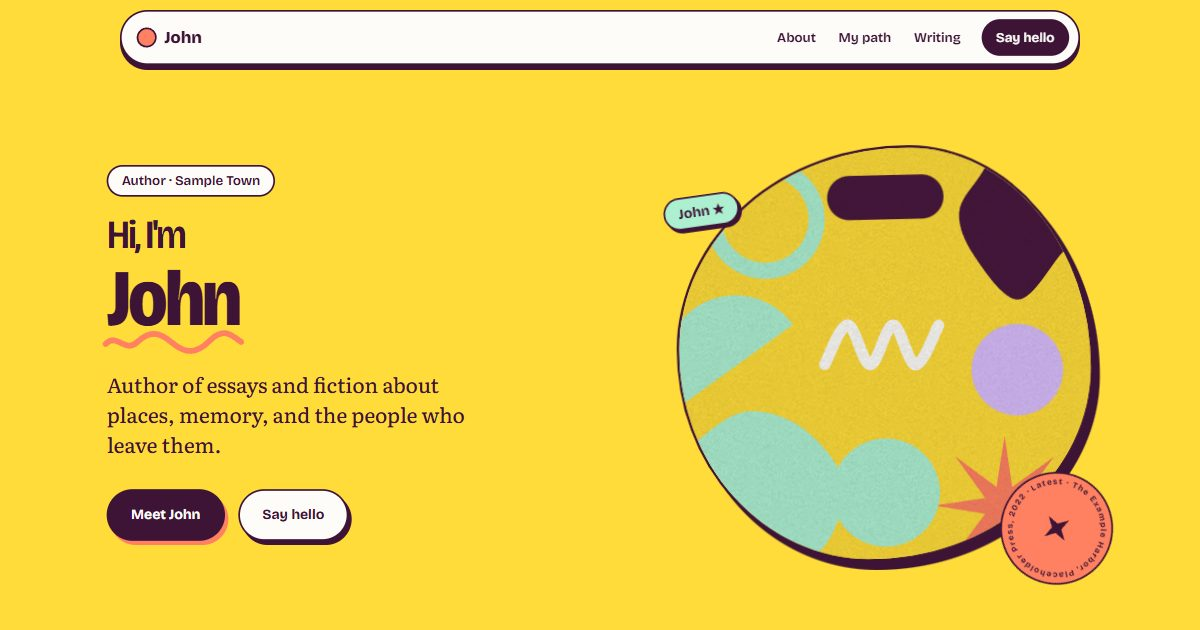
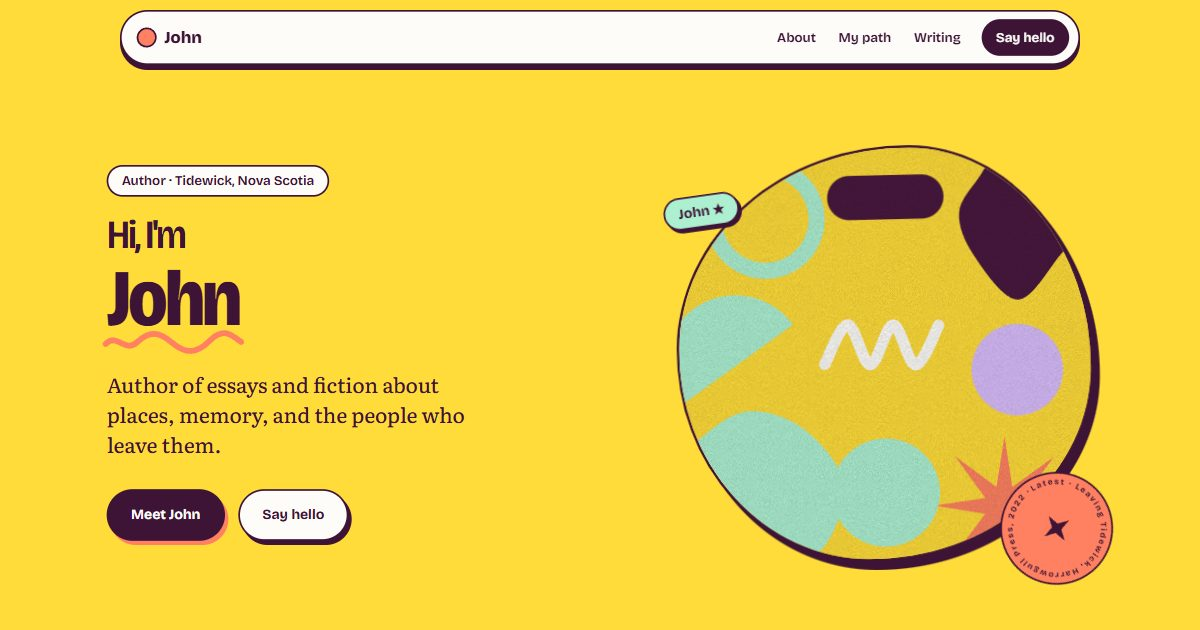
Update bios to use more realistic info

diff --git a/clients/jane-teacher/config.ts b/clients/jane-teacher/config.ts
@@ -1,53 +1,62 @@
 import type { Teacher } from '../../src/schemas/client';
 
 // SAMPLE CONTENT — fictional persona for demo purposes only.
+// Set in Canada: school names, degrees, grades and spelling follow Canadian usage.
+// The person, town, schools, publishers and titles are all invented, and written to read like a
+// finished site. The invented names were searched for on 2026-10-04 and matched no real
+// institution; search again before adding or changing one.
 const jane: Teacher = {
   slug: 'jane-teacher',
   archetype: 'teacher',
   name: 'Jane Teacher',
   domain: 'https://jane-teacher.example',
   tagline: 'Secondary English educator helping students find their voice through writing.',
-  location: 'Sample City',
+  location: 'Larkmere, Ontario',
   sameAs: [],
   bio:
-    'Jane Teacher is a sample secondary English teacher persona. This paragraph shows how a real ' +
-    'client bio would read: a short narrative about who they are, what they teach, and what ' +
-    'they care about in the classroom. Every line of a live client site is supplied and approved ' +
-    'by the client, never invented.',
+    'Jane Teacher has taught secondary English since 2010. Her classroom runs on drafts: students ' +
+    "write often, read each other's work, and revise until the piece says what they meant. She " +
+    'is Head of English at Larkmere Secondary School, where she teaches Grade 12 English, creative ' +
+    'writing and public speaking, and she writes for other teachers about how revision is taught.',
   credentials: [
     {
       year: 2012,
-      degree: 'M.Ed. in Curriculum and Instruction',
-      institution: 'Sample State University',
-      location: 'Sample City',
+      degree: 'M.Ed. in Curriculum Studies',
+      institution: 'Brackwell University',
+      location: 'Ontario',
+    },
+    {
+      year: 2009,
+      degree: 'B.Ed., Intermediate and Senior Divisions',
+      institution: 'Brackwell University',
     },
     {
       year: 2008,
-      degree: 'B.A. in English Literature',
-      institution: 'Example College',
+      degree: 'B.A. (Hons) in English Literature',
+      institution: 'Halvering University',
     },
   ],
   teaching: [
     {
       startYear: 2016,
       endYear: null,
-      role: 'Lead English Teacher',
-      institution: 'Example High School',
+      role: 'Head of English',
+      institution: 'Larkmere Secondary School',
       department: 'English Department',
-      courses: ['AP Literature', 'Creative Writing', 'English 10', 'Public Speaking'],
+      courses: ['Grade 12 English', 'Creative Writing', 'Grade 10 English', 'Public Speaking'],
     },
     {
       startYear: 2010,
       endYear: 2016,
       role: 'English Teacher',
-      institution: 'Placeholder Middle School',
-      courses: ['English 8', 'Journalism'],
+      institution: 'Wrenfield Public School',
+      courses: ['Grade 8 Language Arts', 'Grade 7 Language Arts'],
     },
   ],
   publications: [
     {
-      title: 'Sample Article on Teaching Writing',
-      venue: 'Example Educators Journal',
+      title: 'The Case for the Second Draft',
+      venue: 'Brackwell Education Review',
       year: 2019,
       type: 'article',
     },

diff --git a/clients/john-writer/config.ts b/clients/john-writer/config.ts
@@ -1,43 +1,47 @@
 import type { Writer } from '../../src/schemas/client';
 
 // SAMPLE CONTENT — fictional persona for demo purposes only.
+// Set in Canada: place, degrees and spelling follow Canadian usage.
+// The person, town, schools, publishers and titles are all invented, and written to read like a
+// finished site. The invented names were searched for on 2026-10-04 and matched no real
+// institution; search again before adding or changing one.
 const john: Writer = {
   slug: 'john-writer',
   archetype: 'writer',
   name: 'John Writer',
   domain: 'https://john-writer.example',
   tagline: 'Author of essays and fiction about places, memory, and the people who leave them.',
-  location: 'Sample Town',
+  location: 'Tidewick, Nova Scotia',
   sameAs: [],
   bio:
-    'John Writer is a sample author persona. This paragraph shows how a real client bio would ' +
-    'read: who they are, what they write, and what readers can expect. On a live site this ' +
-    'text is written with the client and approved by them, and every credit and publication ' +
-    'listed is verified before launch.',
+    'John Writer writes essays and fiction about small coastal towns and the people who move away ' +
+    'from them. His first book, Leaving Tidewick, follows one harbour town through a single winter. ' +
+    'His shorter work has appeared in The Halvering Review and Thornwick Quarterly. He lives in ' +
+    'Tidewick, a short walk from the ferry, and is at work on a second book.',
   credentials: [
     {
       year: 2014,
       degree: 'MFA in Creative Writing',
-      institution: 'Sample University',
+      institution: 'Halvering University',
     },
   ],
   teaching: [],
   publications: [
     {
-      title: 'The Example Harbor',
-      venue: 'Placeholder Press',
+      title: 'Leaving Tidewick',
+      venue: 'Harrowgull Press',
       year: 2022,
       type: 'book',
     },
     {
-      title: 'A Sample Essay on Leaving',
-      venue: 'The Sample Review',
+      title: 'A Map of Closed Shops',
+      venue: 'The Halvering Review',
       year: 2020,
       type: 'essay',
     },
     {
-      title: 'Short Story Placeholder',
-      venue: 'Example Quarterly',
+      title: 'Salt on the Windows',
+      venue: 'Thornwick Quarterly',
       year: 2018,
       type: 'story',
     },

diff --git a/README.md b/README.md
@@ -71,7 +71,7 @@ These rules are enforced in code via Zod schemas (see §6).
 | Build model | **Per-client build** | `dist/[slug]/` per client, deployed to that client's domain |
 | Contact form | **`[TODO: form endpoint]`** | Placeholder until service chosen (Formspree / Web3Forms / etc.) |
 | Deployment | **POC on own Linux server**, production TBD | `dist/[slug]/` is a plain static folder |
-| Fake personas | **Two:** `jane-teacher`, `john-writer` | Placeholder-shaped content only, not plausible-fake |
+| Fake personas | **Two:** `jane-teacher`, `john-writer` | Changed 2026-10-04: the content now reads like a finished site (was placeholder-shaped). The names Jane Teacher and John Writer stay obviously fictional; the town, schools, publishers and titles are invented and were searched for to avoid matching real ones; every page still says it is a sample with fictional content. Both are set in Canada (Larkmere, Ontario and Tidewick, Nova Scotia), so schools, degrees, grades and spelling follow Canadian usage. Search again before adding an invented name |
 | Team plan | **Solo now, PMs later, dev steps away from code** | Drives multi-tenant + config-driven choices |
 
 ### Repo name

diff --git a/PRODUCT.md b/PRODUCT.md
@@ -29,7 +29,7 @@ Static Astro 7 + Tailwind 4 site, client content in typed config files validated
 Business name: webdle. Binding visual constraints volunteered by the user: build four distinct design directions, one each for prestige and credibility, warmth and personality, "wow" cutting-edge, and calm and focused; steer toward soft and human, and editorial and literary looks.
 
 ## Evidence on Hand
-No real clients, testimonials, case studies, press, or photography exist. Do not fabricate any. Only the two fictional sample configs in `clients/`.
+No real clients, testimonials, case studies, press, or photography exist. Do not fabricate any. Only the two fictional sample configs in `clients/`, whose people, places, schools, publishers and titles are all invented and labelled as fictional on every page.
 
 ## Product Principles
 1. Show, don't claim: the demos are the pitch, so they must look like finished sites a client would be proud of.
